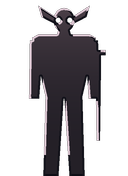
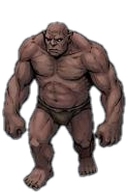
Paint the floor, and the screens that were resolving to nothing
Twenty-three Tier 8 files in three sheets, plus three of the four
meta-screen backdrops.

What they were listed for, measured before and after:

  figure luma          0.16-0.21  ->  0.25-0.49   (floors read 0.43-0.49)
  combat/elite/boss     100%      ->  17.6%, 25.6% silhouette overlap
  hero vs caster         81.9%    ->  41.8%

The fight markers were the worst line in the REDO table: three
identical silhouettes separated by hue, so the floor could not say
whether the room ahead was a trash fight or the thing that ends the
run. All twenty-three now measure 0.0% empty space below the feet,
which is what install_sheet's new foot-anchoring is for.

Two sheet defects that look like bad drawings and are not. Subjects
drift off an even grid, so a wide one crosses its cell boundary and
the neighbour bleeds into the border - respace.gd cuts each subject at
its own bbox and re-emits them evenly. And a row-drawn sheet can come
back with faint horizontal bands, which fail the same flatness check -
flatten_bg.gd repaints each row's own background to one colour, which
cannot reach the drawing because a subject pixel is nowhere near the
field colour.

The _s/_n pairing cannot be generated one file at a time: asked for a
creature and the same creature from behind, one row returned an
unrelated human. Two sheets of eight beat one of sixteen, and --only
with --cells installs the survivors without re-rolling the good ones.
[…]

diff --git a/ART_PROMPTS.md b/ART_PROMPTS.md
@@ -1,3 +1,4 @@
+
 <!-- GENERATED by tools/art_manifest.gd — do not edit by hand.
      Regenerate: godot --headless --script tools/art_manifest.gd -- --prompts > ART_PROMPTS.md -->
 
@@ -8,7 +9,7 @@ same reason: a hand-kept prompt sheet goes stale, and a prompt naming an enemy
 the game no longer has produces a painting with nowhere to go. The *why* is
 [ART.md](ART.md); that file is the shopping list; this one is the wording.
 
-**63 files can be generated.** The rest of the list cannot, and the sections below
+**37 files can be generated.** The rest of the list cannot, and the sections below
 say which and why — the expensive mistake is not a bad painting, it is a good
 painting of a thing that had to be computed.
 
@@ -27,7 +28,7 @@ painting of a thing that had to be computed.
    stronger constraint on palette and line weight than any adjective. `main_menu.jpg`
    is what a request without it looks like.
 3. **Paste the style block below unchanged, then one subject line.** Do not
-   improve it between images. Its job is to be identical 63 times.
+   improve it between images. Its job is to be identical 37 times.
 
 ```
 Painted dark-fantasy storybook illustration, in the style of the attached reference image.
@@ -147,13 +148,10 @@ Nothing to generate here — all 6 present.
 
 Full-bleed 16:9, opaque. One thing about these decides the whole composition and it is what separates them from Tier 5c: a shop or an event puts its prose in the top half and framed buttons below it, so there is a half of the frame nothing is written on, and those six are composed for it. These twelve are LISTS — a title on the top edge, rows down the middle, a button on the bottom edge. MEASURED off the 1280x720 captures of seven of them, UI ink runs from row 24 to row 684-688: **3% to 96% of the frame height, on every one of the seven**, against a backdrop whose brightest pixel in an empty patch is 26/255. There is no band of the frame text does not cross. On top of that `UI.screen()` lays a near-opaque scrim over the top of the image and fades it out about two thirds down (`SCENE_HOLD`/`SCENE_END` in `scripts/ui.gd`), leaving a light flat dim below — so the picture effectively SHOWS in the bottom third, and the bottom third is where the rows are. Compose for that and not against it: put the light source and everything worth looking at in the upper third, where the scrim will hold it back, and make the bottom half ONE continuous surface at one even value — a table top, a wall face, a floor — with no object, no edge and no highlight crossing it. A backdrop whose lower half has anything going on in it is a backdrop nobody can read a list over. Keep the whole image at the low end of the 20-35% luminance band. Empty rooms: no figures, and nothing anywhere that reads as writing.
 
-**4 to generate.** Style block above, then one of these as the last line:
+**1 to generate, 3 already present.** Style block above, then one of these as the last line:
 
 | save as | size | subject |
 |---|---|---|
-| `bg_table.png` | 1280x720 | A long stone bench seen end-on from slightly above, its far end lost in the dark, with a few cards lying FACE DOWN on it beside a stub of candle and a shallow iron bowl of tokens. Card backs only — plain, worn, no faces, no marks, no pips. The candle is the only light source and it sits in the UPPER THIRD, well off centre. The near half of the bench fills the whole bottom half of the frame and is one unbroken slab of worn stone at one even value: no objects on it, no edge crossing it, no highlight, no grain that changes value — rows of text run down over that half from side to side. Nobody in frame. |
-| `bg_reliquary.png` | 1280x720 | A shallow niche cut into a stone wall, seen head-on, holding a row of iron pegs and one narrow shelf with three unremarkable objects on it: a ring, a knuckle bone, a stoppered jar. One cold flame in a wall bracket in the UPPER THIRD is the only light source. Below the niche the bare wall face and the floor under it fill the whole bottom half of the frame as one flat, evenly dark surface — no carving, no moulding, no bracket, no object and no highlight anywhere in it, because thirty rows of text run down over it. Nobody in frame. |
-| `bg_ledger.png` | 1280x720 | A writing desk set against a stone wall, seen head-on, with a SHUT ledger and an inkpot on it and a shelf of more shut ledgers above. Every book closed: no open page, no writing, no marking on any cover or spine. One candle on the shelf, in the UPPER THIRD, is the only light source. The front of the desk and the floor before it fill the whole bottom half of the frame as one flat, evenly dark surface with no drawer, no handle, no object and no highlight in it, because a column of text and controls runs down over it. Nobody in frame. |
 | `bg_world.png` | 1280x720 | A stone gatehouse arch seen head-on from inside it, the road out running away through the opening into fog. NOTHING beyond the arch resolves — no landmark, no tower, no ridge, no landscape of any kind, only depth and haze. One cold flame in a bracket on the arch, in the UPPER THIRD, is the only light source. The gateway flagstones fill the whole bottom half of the frame as one flat, evenly dark surface: no rubble, no puddle, no rut, no highlight, because rows of text with painted thumbnails beside them run down over it. Nobody in frame. |
 
 ## Tier 6a — relic icons
@@ -178,77 +176,9 @@ The fonts are licensed downloads (OFL/SIL), recorded like the Kenney ones. The l
 
 ## Tier 8a — isometric figures
 
-A small figure seen in three-quarter ISOMETRIC view from slightly above, standing on nothing, on a flat even field for the matte. It is composited onto a lit stone floor at about 90px tall and anchored BY ITS FEET, so the feet must be the lowest painted pixel and there must be no ground, no shadow, no plinth and no scenery under it. The whole tier's defect is that the current set is unlit: every figure measures luma 0.16-0.21 against a floor of 0.43-0.49, so they read as holes cut in the ground rather than as people standing on it. So these must be MID-VALUE AND LIT — clearly lighter than the floor across most of their body, lit from the upper left, with real interior: cloth, metal, skin, a face. A rim light alone is what is already there and is not enough.
-
-**Generate this tier as ONE image, not 16.** Two columns and one row per figure. The LEFT column faces the camera, the RIGHT column is the SAME figure from behind, same size, same colours, same silhouette width — it is one character turned around, not a second character. Flat even background, nothing touching a cell edge. Install: `godot --headless --script tools/install_sheet.gd -- iso_figures <sheet.png>`
-Cells in the order of the table below, left to right then top to bottom.
-
-**16 to RE-ROLL** — these files exist and are wrong. Same style block and same subject line as a first draft; what is on disk is not a constraint on what comes back.
-
-| save as | size | what is wrong with the one we have |
-|---|---|---|
-| `iso/hero_s.png` | 128x192 | flat near-black silhouette: luma 0.16-0.21 against a floor of 0.43-0.49, so it reads as a hole in the ground rather than a figure standing on it, and the interior is empty behind a one-sided rim light. Whole tier, one defect — re-roll the sheet, not the file (D122) |
-| `iso/hero_n.png` | 128x192 | flat near-black silhouette: luma 0.16-0.21 against a floor of 0.43-0.49, so it reads as a hole in the ground rather than a figure standing on it, and the interior is empty behind a one-sided rim light. Whole tier, one defect — re-roll the sheet, not the file (D122) |
-| `iso/mon_swarm_s.png` | 128x192 | flat near-black silhouette: luma 0.16-0.21 against a floor of 0.43-0.49, so it reads as a hole in the ground rather than a figure standing on it, and the interior is empty behind a one-sided rim light. Whole tier, one defect — re-roll the sheet, not the file (D122) |
-| `iso/mon_swarm_n.png` | 128x192 | flat near-black silhouette: luma 0.16-0.21 against a floor of 0.43-0.49, so it reads as a hole in the ground rather than a figure standing on it, and the interior is empty behind a one-sided rim light. Whole tier, one defect — re-roll the sheet, not the file (D122) |
-| `iso/mon_brute_s.png` | 128x192 | flat near-black silhouette: luma 0.16-0.21 against a floor of 0.43-0.49, so it reads as a hole in the ground rather than a figure standing on it, and the interior is empty behind a one-sided rim light. Whole tier, one defect — re-roll the sheet, not the file (D122) |
-| `iso/mon_brute_n.png` | 128x192 | flat near-black silhouette: luma 0.16-0.21 against a floor of 0.43-0.49, so it reads as a hole in the ground rather than a figure standing on it, and the interior is empty behind a one-sided rim light. Whole tier, one defect — re-roll the sheet, not the file (D122) |
-| `iso/mon_caster_s.png` | 128x192 | flat near-black silhouette: luma 0.16-0.21 against a floor of 0.43-0.49, so it reads as a hole in the ground rather than a figure standing on it, and the interior is empty behind a one-sided rim light. Whole tier, one defect — re-roll the sheet, not the file (D122) AND it is the same drawing as the hero: 81.9% silhouette overlap measured against `hero_s.png`, because `gen_iso_markers.gd` builds the hero on the caster's plan and tells them apart by HUE — which at luma 0.20 on a 0.45 floor is not a distinction anybody can see |
-| `iso/mon_caster_n.png` | 128x192 | flat near-black silhouette: luma 0.16-0.21 against a floor of 0.43-0.49, so it reads as a hole in the ground rather than a figure standing on it, and the interior is empty behind a one-sided rim light. Whole tier, one defect — re-roll the sheet, not the file (D122) |
-| `iso/wander_0_s.png` | 128x192 | flat near-black silhouette: luma 0.16-0.21 against a floor of 0.43-0.49, so it reads as a hole in the ground rather than a figure standing on it, and the interior is empty behind a one-sided rim light. Whole tier, one defect — re-roll the sheet, not the file (D122) |
-| `iso/wander_0_n.png` | 128x192 | flat near-black silhouette: luma 0.16-0.21 against a floor of 0.43-0.49, so it reads as a hole in the ground rather than a figure standing on it, and the interior is empty behind a one-sided rim light. Whole tier, one defect — re-roll the sheet, not the file (D122) |
-| `iso/wander_1_s.png` | 128x192 | flat near-black silhouette: luma 0.16-0.21 against a floor of 0.43-0.49, so it reads as a hole in the ground rather than a figure standing on it, and the interior is empty behind a one-sided rim light. Whole tier, one defect — re-roll the sheet, not the file (D122) |
-| `iso/wander_1_n.png` | 128x192 | flat near-black silhouette: luma 0.16-0.21 against a floor of 0.43-0.49, so it reads as a hole in the ground rather than a figure standing on it, and the interior is empty behind a one-sided rim light. Whole tier, one defect — re-roll the sheet, not the file (D122) |
-| `iso/wander_2_s.png` | 128x192 | flat near-black silhouette: luma 0.16-0.21 against a floor of 0.43-0.49, so it reads as a hole in the ground rather than a figure standing on it, and the interior is empty behind a one-sided rim light. Whole tier, one defect — re-roll the sheet, not the file (D122) |
-| `iso/wander_2_n.png` | 128x192 | flat near-black silhouette: luma 0.16-0.21 against a floor of 0.43-0.49, so it reads as a hole in the ground rather than a figure standing on it, and the interior is empty behind a one-sided rim light. Whole tier, one defect — re-roll the sheet, not the file (D122) |
-| `iso/wander_3_s.png` | 128x192 | flat near-black silhouette: luma 0.16-0.21 against a floor of 0.43-0.49, so it reads as a hole in the ground rather than a figure standing on it, and the interior is empty behind a one-sided rim light. Whole tier, one defect — re-roll the sheet, not the file (D122) |
-| `iso/wander_3_n.png` | 128x192 | flat near-black silhouette: luma 0.16-0.21 against a floor of 0.43-0.49, so it reads as a hole in the ground rather than a figure standing on it, and the interior is empty behind a one-sided rim light. Whole tier, one defect — re-roll the sheet, not the file (D122) |
-
-| save as | size | subject |
-|---|---|---|
-| `iso/hero_s.png` | 128x192 | The player, facing the camera. |
-| `iso/hero_n.png` | 128x192 | The player, walking away. |
-| `iso/mon_swarm_s.png` | 128x192 | A swarm, facing the camera. It IS the fight this tile becomes, so it must match the arena's swarm (D85). |
-| `iso/mon_swarm_n.png` | 128x192 | The same swarm, from behind. |
-| `iso/mon_brute_s.png` | 128x192 | A brute, facing the camera. It IS the fight this tile becomes, so it must match the arena's brute (D85). |
-| `iso/mon_brute_n.png` | 128x192 | The same brute, from behind. |
-| `iso/mon_caster_s.png` | 128x192 | A caster, facing the camera. It IS the fight this tile becomes, so it must match the arena's caster (D85). |
-| `iso/mon_caster_n.png` | 128x192 | The same caster, from behind. |
-| `iso/wander_0_s.png` | 128x192 | Wanderer design 0, facing the camera — something else walking the floor. |
-| `iso/wander_0_n.png` | 128x192 | Wanderer design 0, from behind. |
-| `iso/wander_1_s.png` | 128x192 | Wanderer design 1, facing the camera — something else walking the floor. |
-| `iso/wander_1_n.png` | 128x192 | Wanderer design 1, from behind. |
-| `iso/wander_2_s.png` | 128x192 | Wanderer design 2, facing the camera — something else walking the floor. |
-| `iso/wander_2_n.png` | 128x192 | Wanderer design 2, from behind. |
-| `iso/wander_3_s.png` | 128x192 | Wanderer design 3, facing the camera — something else walking the floor. |
-| `iso/wander_3_n.png` | 128x192 | Wanderer design 3, from behind. |
+Nothing to generate here — all 16 present.
 
 ## Tier 8b — isometric furniture
 
-A small object or prop seen in three-quarter ISOMETRIC view from slightly above, standing on nothing, on a flat even field for the matte, anchored by its base. Same lighting and same value rule as Tier 8a: clearly lighter than the floor, lit from the upper left, real material. No ground, no shadow, no scenery.
-
-**Generate this tier as ONE image, not 7.** One row of seven, in the order of the table below. Flat even background, nothing touching a cell edge. THE THREE FIGHT MARKERS ARE THE WHOLE POINT OF THIS SHEET and they are why it is drawn as a set: today `combat`, `elite` and `boss` are the same silhouette to the pixel, so the floor cannot tell you whether the room ahead is a trash fight or the thing that ends the run, and that is the one decision the map exists to support. Give the three visibly ESCALATING silhouettes — bigger, taller, more of it — not three tints of one shape. Install: `godot --headless --script tools/install_sheet.gd -- iso_furniture <sheet.png>`
-Cells in the order of the table below, left to right then top to bottom.
-
-**7 to RE-ROLL** — these files exist and are wrong. Same style block and same subject line as a first draft; what is on disk is not a constraint on what comes back.
-
-| save as | size | what is wrong with the one we have |
-|---|---|---|
-| `iso/combat.png` | 128x192 | flat near-black silhouette: luma 0.16-0.21 against a floor of 0.43-0.49, so it reads as a hole in the ground rather than a figure standing on it, and the interior is empty behind a one-sided rim light. Whole tier, one defect — re-roll the sheet, not the file (D122) AND `combat.png`, `elite.png` and `boss.png` are the SAME SILHOUETTE — 100% overlap, measured, all three built on `gen_iso_markers.gd`'s brute plan and separated only by hue. So the floor cannot tell you whether the room ahead is a trash fight or the thing that ends the run, which is the one decision the map exists to support |
-| `iso/elite.png` | 128x192 | flat near-black silhouette: luma 0.16-0.21 against a floor of 0.43-0.49, so it reads as a hole in the ground rather than a figure standing on it, and the interior is empty behind a one-sided rim light. Whole tier, one defect — re-roll the sheet, not the file (D122) AND identical in silhouette to `combat.png` and `boss.png` — see the note on `combat.png` |
-| `iso/boss.png` | 128x192 | flat near-black silhouette: luma 0.16-0.21 against a floor of 0.43-0.49, so it reads as a hole in the ground rather than a figure standing on it, and the interior is empty behind a one-sided rim light. Whole tier, one defect — re-roll the sheet, not the file (D122) AND identical in silhouette to `combat.png` and `elite.png` — see the note on `combat.png` |
-| `iso/shop.png` | 128x192 | flat near-black silhouette: luma 0.16-0.21 against a floor of 0.43-0.49, so it reads as a hole in the ground rather than a figure standing on it, and the interior is empty behind a one-sided rim light. Whole tier, one defect — re-roll the sheet, not the file (D122) |
-| `iso/rest.png` | 128x192 | flat near-black silhouette: luma 0.16-0.21 against a floor of 0.43-0.49, so it reads as a hole in the ground rather than a figure standing on it, and the interior is empty behind a one-sided rim light. Whole tier, one defect — re-roll the sheet, not the file (D122) |
-| `iso/event.png` | 128x192 | flat near-black silhouette: luma 0.16-0.21 against a floor of 0.43-0.49, so it reads as a hole in the ground rather than a figure standing on it, and the interior is empty behind a one-sided rim light. Whole tier, one defect — re-roll the sheet, not the file (D122) |
-| `iso/treasure.png` | 128x192 | flat near-black silhouette: luma 0.16-0.21 against a floor of 0.43-0.49, so it reads as a hole in the ground rather than a figure standing on it, and the interior is empty behind a one-sided rim light. Whole tier, one defect — re-roll the sheet, not the file (D122) |
-
-| save as | size | subject |
-|---|---|---|
-| `iso/combat.png` | 128x192 | An ordinary fight waiting on this tile. |
-| `iso/elite.png` | 128x192 | A harder fight — bigger than `combat.png` at a glance. |
-| `iso/boss.png` | 128x192 | The floor's boss — unmistakably the biggest of the three. |
-| `iso/shop.png` | 128x192 | A merchant's stall, nobody behind it. |
-| `iso/rest.png` | 128x192 | A campfire. A light source, so it is the one thing here that glows. |
-| `iso/event.png` | 128x192 | A standing rune-stone. Something to read, not to fight. |
-| `iso/treasure.png` | 128x192 | A chest, shut. |
+Nothing to generate here — all 7 present.
 

diff --git a/ART_ASSETS.md b/ART_ASSETS.md
@@ -1,3 +1,4 @@
+
 <!-- GENERATED by tools/art_manifest.gd — do not edit by hand.
      Regenerate: godot --headless --script tools/art_manifest.gd > ART_ASSETS.md -->
 
@@ -7,7 +8,7 @@ Every image the game will look for, generated from the content catalogues so it
 cannot fall out of step with them. The *why* behind all of it is [ART.md](ART.md);
 this is the shopping list.
 
-**211 files wanted · 198 already present · 13 to provide.**
+**211 files wanted · 201 already present · 10 to provide.**
 
 Paths are relative to `assets/art/`. Author UI assets at **2x** and downsample.
 The interface is laid out at a FIXED 1280x720 and the engine's `canvas_items`
@@ -226,13 +227,13 @@ sets NEAREST globally for the pixel assets, which would alias smooth art.
 
 ## Tier 5d — meta-screen backdrops
 
-*4 files, 4 still to provide.* Twelve screens, four paintings. The grouping is by PLACE and the argument for it is in `META_BG` in the tool; these are the screens that passed nothing to `UI.screen()` and were rendering the procedural tiling pattern (D123).
+*4 files, 1 still to provide.* Twelve screens, four paintings. The grouping is by PLACE and the argument for it is in `META_BG` in the tool; these are the screens that passed nothing to `UI.screen()` and were rendering the procedural tiling pattern (D123).
 
 | ? | file | size | what it is |
 |---|---|---|---|
-|   | `bg_table.png` | 1280x720 | Deck builder, Collection, Builds, Packs and the starter kit. One place, five screens: every one of them is a list of cards you own with something to do to them. |
-|   | `bg_reliquary.png` | 1280x720 | Relics and Powers. Both screens are the same claim — this is what you have earned and cannot lose — and they are the same list in code, so they are the same room. |
-|   | `bg_ledger.png` | 1280x720 | Glossary, Save Slots and Settings — the game's own machinery rather than the character's. Not a place in the fiction, which is why it is a desk and not a room. |
+| x | `bg_table.png` | 1280x720 | Deck builder, Collection, Builds, Packs and the starter kit. One place, five screens: every one of them is a list of cards you own with something to do to them. |
+| x | `bg_reliquary.png` | 1280x720 | Relics and Powers. Both screens are the same claim — this is what you have earned and cannot lose — and they are the same list in code, so they are the same room. |
+| x | `bg_ledger.png` | 1280x720 | Glossary, Save Slots and Settings — the game's own machinery rather than the character's. Not a place in the fiction, which is why it is a desk and not a room. |
 |   | `bg_world.png` | 1280x720 | The Overworld hub. Alone because it is what every other screen is reached from, and because it is the one screen already carrying five paintings of its own (D96). |
 
 ## Tier 6a — relic icons

diff --git a/DESIGN.md b/DESIGN.md
@@ -7066,6 +7066,36 @@ room. And `ui/boot_splash.png` lands at 1.3% / 4.7% with the narrowest span in t
 (0.410); it is a lantern in the dark and meant to be, but it is the next file this metric
 will flag, and it should be judged on a render before anybody re-rolls it.
 
+**After the quota reset, the tier was painted and every number moved.** Twenty-three
+Tier 8 files in three sheets, plus three of the four meta-screen backdrops D123 asked
+for. What they were listed for, measured before and after: figure luma **0.16–0.21 →
+0.25–0.49** against floors of 0.43–0.49, so a figure is on the ground rather than a hole
+in it; `combat`/`elite`/`boss` silhouette overlap **100% → 17.6% and 25.6%**, so the
+floor can finally say whether the room ahead is a trash fight or the thing that ends the
+run; hero-vs-caster **81.9% → 41.8%**, two characters instead of one tinted twice. All
+twenty-three measure 0.0% empty space below the feet, which is what the new
+foot-anchoring in `install_sheet.gd` is for.
+
+**Two sheet defects worth knowing, because both look like a bad drawing and are not.**
+A generator asked for evenly spaced subjects drifts — by up to a quarter of a cell — so
+a wide subject crosses its boundary, the neighbour bleeds into the next cell's border,
+and `Cut.cut` refuses it with "background is not flat". The border genuinely is not; the
+art is fine. `respace.gd` finds the real gaps (columns that are entirely field), cuts
+each subject at its own bbox and re-emits them evenly, so the equal-cell reader is
+correct again and the mapping stays positional. Separately, a sheet drawn as rows can
+come back with faint horizontal BANDS in the background, one per row, and a cell
+straddling a band edge fails the same check — `flatten_bg.gd` repaints every pixel
+within tolerance of its own row's background to one colour, which cannot reach the
+drawing because a subject pixel is nowhere near the field colour. That is the premise
+the matte already runs on.
+
+**The `_s`/`_n` pairing is the thing that cannot be generated one file at a time**, and
+one row proved it: asked for a scuttling creature and the same creature from behind, the
+right cell came back as an unrelated human in a tunic. The two facings have to be one
+drawing seen twice or they are two characters. Two sheets of eight beat one of sixteen —
+the failure is per-cell, and `--only` plus `--cells` installs the survivors without
+re-rolling the good ones.
+
 **On capture.** Autocropping a screenshot against a black overlay is right for a cutout,
 whose subject sits on a field the generator never paints pure black. It silently eats a
 *scene*: the boot splash falls away into darkness at its own edges and came back 1.616
